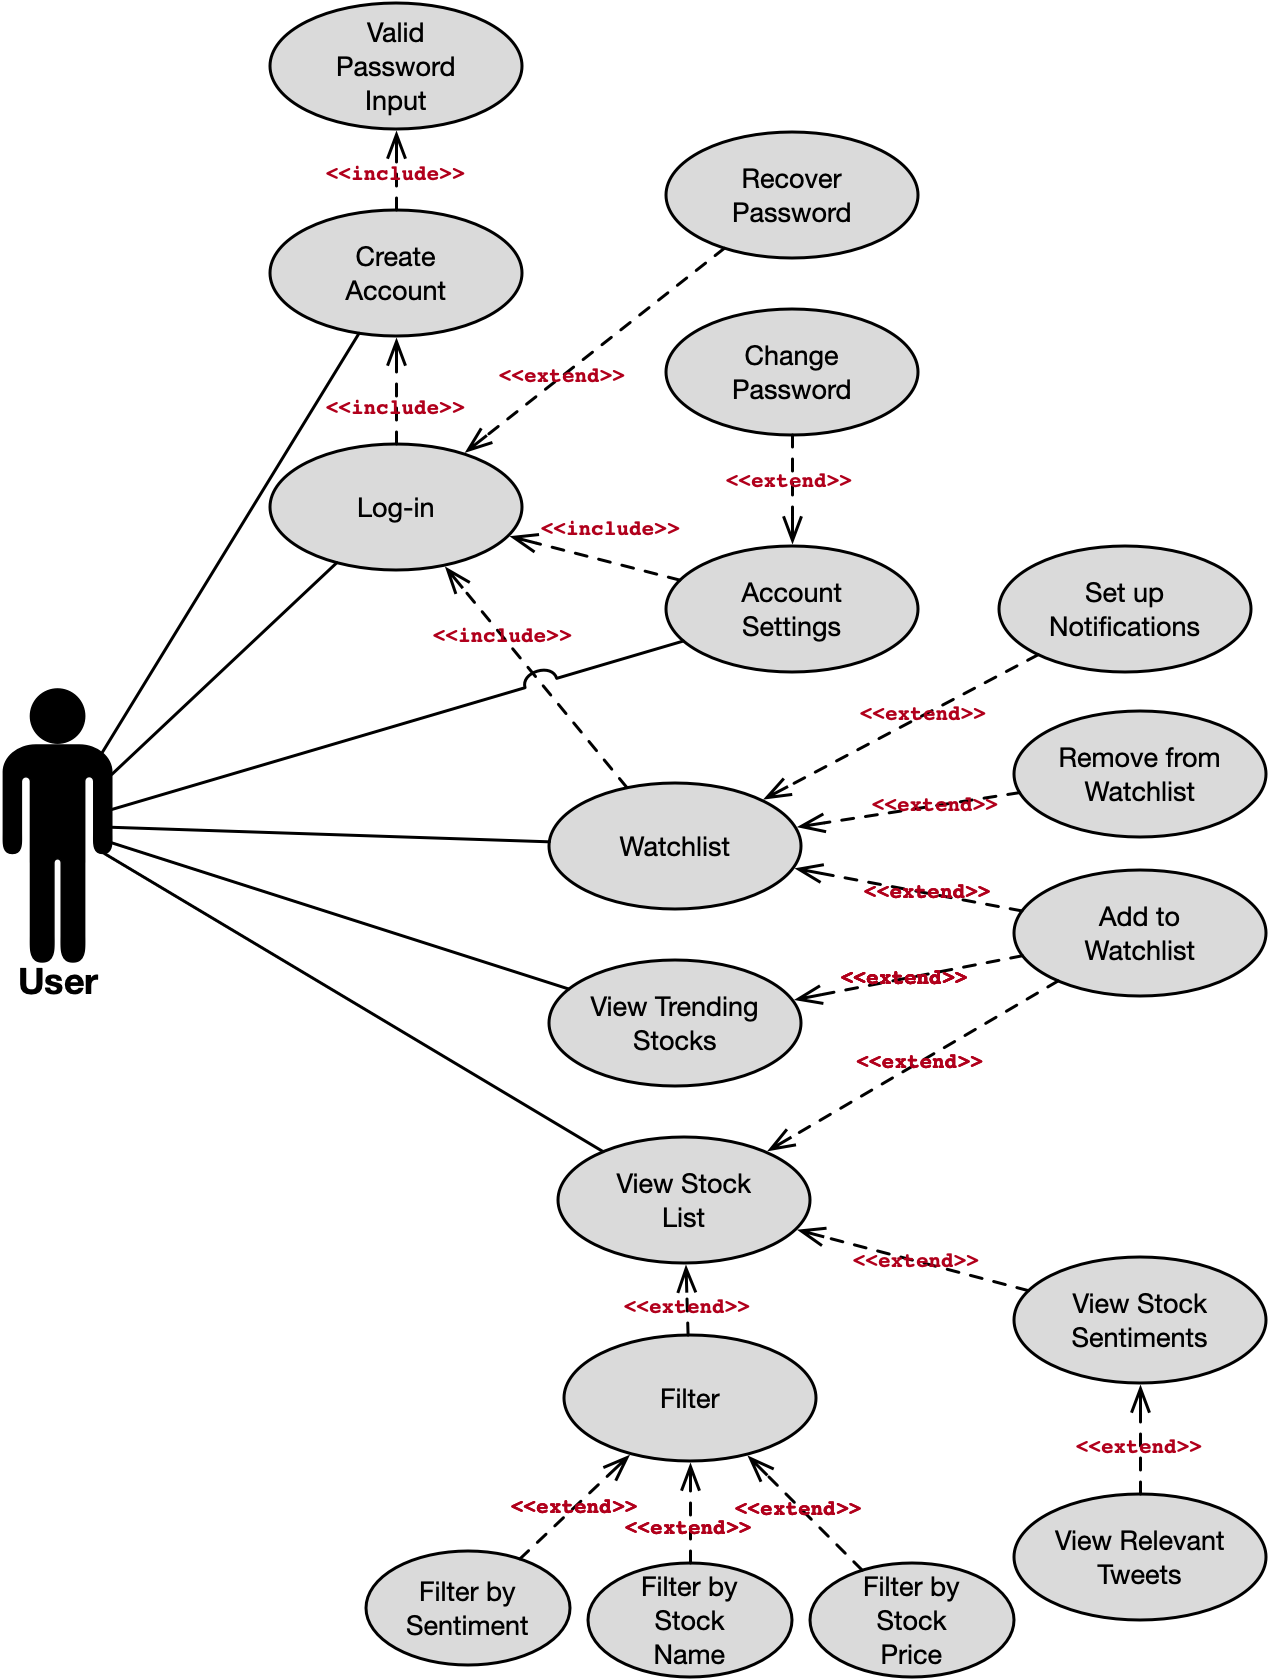
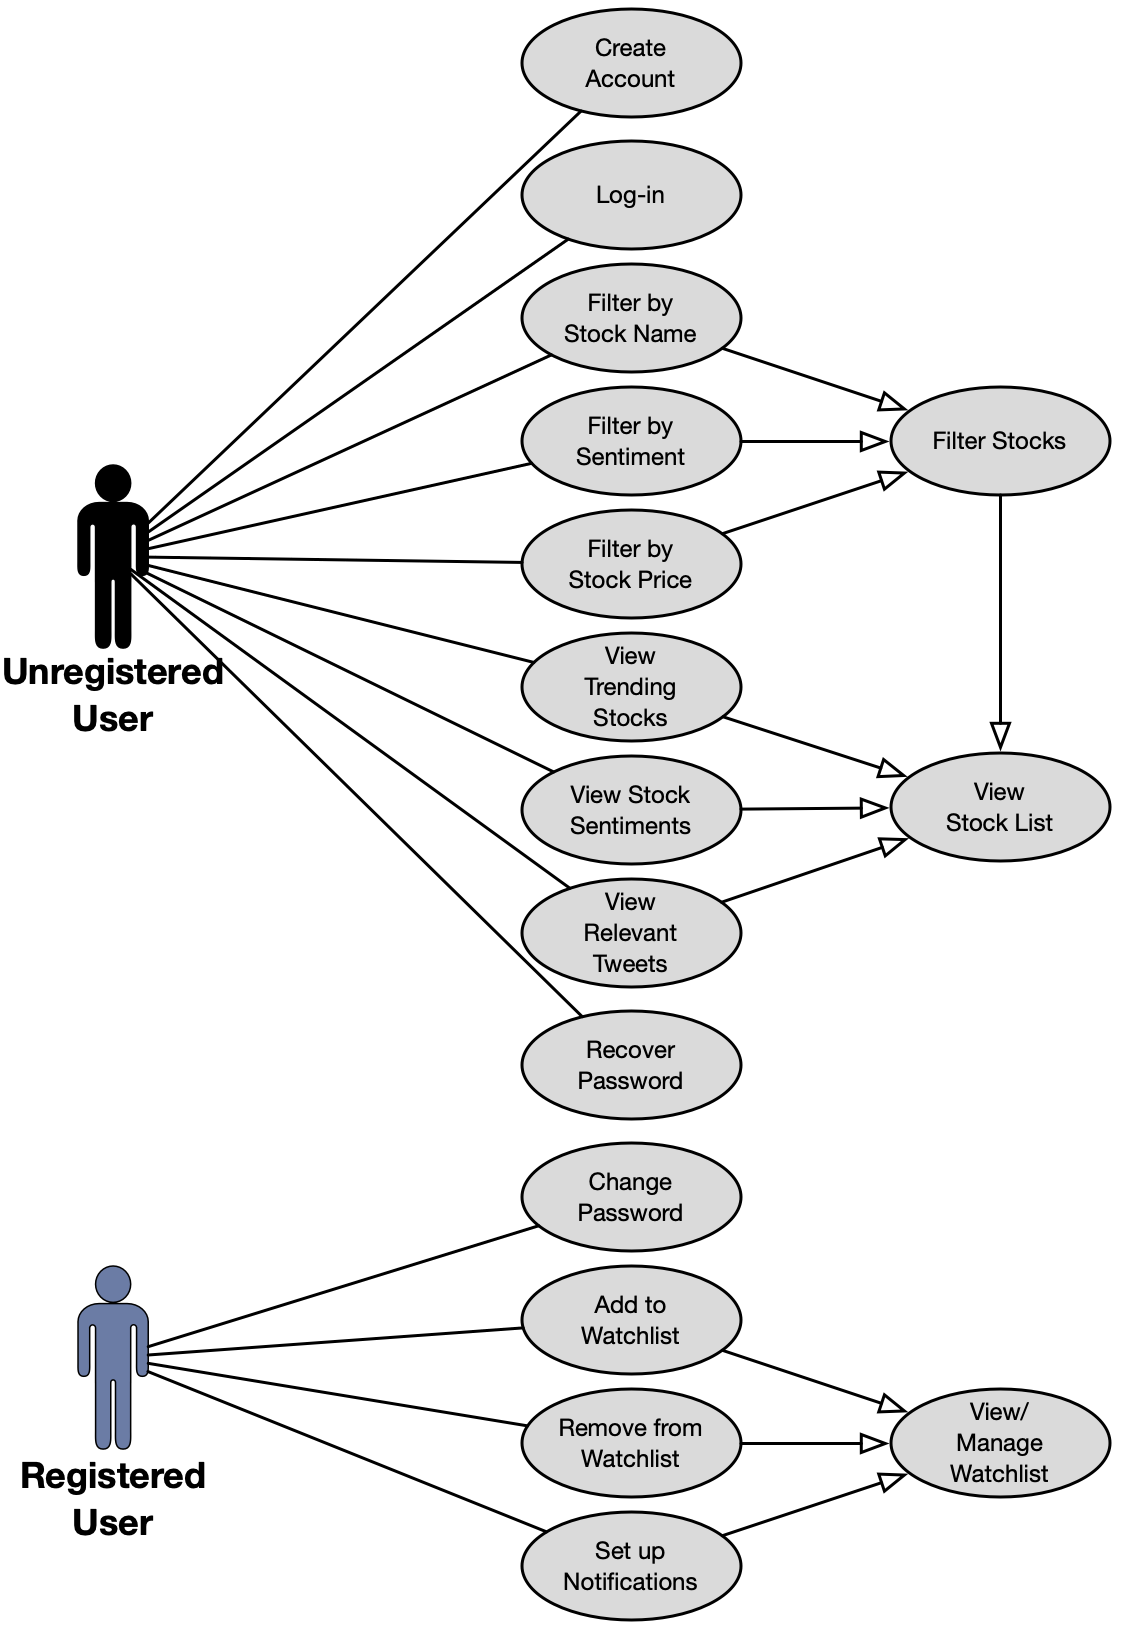
Updated Requirements

diff --git a/docs/requirements.html b/docs/requirements.html
@@ -235,8 +235,105 @@
                     </ul>
                 </div>
                 <h4><span id="3.6.0">(3.6.0) Actors and Use Cases</span></h4>
-                <p>The user interacting with StockEye through their web-browser is the sole actor. The following UML Use Case diagram illustrates how the user will interact with the use cases.</p>
+                <p>The user interacting with StockEye through their web-browser is the sole actor; however, this actor can either be an unregistered or registered user. The following UML Use Case diagram illustrates how the user will interact with the use cases.</p>
                 <img src="\Images\requirements\uml-user_case.png" alt="User Case" style="display: block; margin-left:auto;margin-right:auto; width: 500px;">            
+                <h5>Actors</h5>
+                <table class="vertical-table" style="font-size:90%; margin-left:auto; margin-right:auto;">
+                    <tr>
+                        <th>Actor</th>
+                        <th>Characteristics and Properties</th>
+                    <tr>
+                    <tr>
+                        <td>Unregistered User</td>
+                        <td>
+                            <ul style="list-style-type:none; padding-left: 0px;">
+                                <li>Users that have not logged-in with an account.</li>
+                                <li>Able to interact with basic use cases.</li>
+                            </ul>
+                        </td>
+                    </tr>
+                    <tr>
+                        <td>Registered User</td>
+                        <td>
+                            <ul style="list-style-type:none; padding-left: 0px;">
+                                <li>Users that have logged-in with an account.</li>
+                                <li>Inherits all the use cases accessible to Unregistered Users, except Create Account.</li>
+                                <li>Additional use cases accessible.</li>
+                            </ul>
+                        </td>
+                    </tr>
+                </table>
+                <h5>Use Cases</h5>
+                <table class="vertical-table" style="font-size:90%; margin-left:auto; margin-right:auto;">
+                    <tr>
+                        <th>Use Cases</th>
+                        <th>Description</th>
+                    <tr>
+                    <tr>
+                        <td>Create Account</td>
+                        <td>Register a user account.</td>
+                    </tr>
+                    <tr>
+                        <td>Log-in</td>
+                        <td>Log-in using registered user account.</td>
+                    </tr>
+                    <tr>
+                        <td>View Stock List</td>
+                        <td>View the complete list of Stocks available.</td>
+                    </tr>
+                    <tr>
+                        <td>Filter Stocks</td>
+                        <td>Filter the Stock List using selected criteria.</td>
+                    </tr>
+                    <tr>
+                        <td>Filter by Stock Name</td>
+                        <td>A criteria used to filter the Stock List.</td>
+                    </tr>
+                    <tr>
+                        <td>Filter by Sentiment</td>
+                        <td>A criteria used to filter the Stock List.</td>
+                    </tr>
+                    <tr>
+                        <td>Filter by Stock Price</td>
+                        <td>A criteria used to filter the Stock List.</td>
+                    </tr>
+                    <tr>
+                        <td>View Trending Stock</td>
+                        <td>View the currently trending stocks on Twitter from the Stock List.</td>
+                    </tr>
+                    <tr>
+                        <td>View Stock Sentiments</td>
+                        <td>View the sentiment of a selected stock.</td>
+                    </tr>
+                    <tr>
+                        <td>View Relevant Tweets</td>
+                        <td>View popular tweets contributing to the sentiment of a selected stock.</td>
+                    </tr>
+                    <tr>
+                        <td>Recover Password</td>
+                        <td>Password recovery, in case account password is forgotten.</td>
+                    </tr>
+                    <tr>
+                        <td>Change Password</td>
+                        <td>The changing of current account password.</td>
+                    </tr>
+                    <tr>
+                        <td>View/Manage Watchlist</td>
+                        <td>View or manage user account Watchlist.</td>
+                    </tr>
+                    <tr>
+                        <td>Add to Watchlist</td>
+                        <td>Add a stock to the user account Watchlist.</td>
+                    </tr>
+                     <tr>
+                        <td>Remove from Watchlist</td>
+                        <td>Remove a stock from the user account Watchlist.</td>
+                    </tr>
+                     <tr>
+                        <td>Set Up Notifications</td>
+                        <td>Set up a notifications either by email or text regarding sentiment fluctuations of selected stocks.</td>
+                    </tr>
+                </table>
             </div>
 
         <h3><span id="Change-History">Change History</span></h3>
@@ -278,6 +375,15 @@
                     <tr>
                         <td>February 14, 2021</td>
                         <td>User Case diagram update</td>
+                        <td>
+                            <ul style="list-style-type:none; padding-left: 0px;">
+                                <li>Roy Ceyleon</li>
+                            </ul>
+                        </td>
+                    </tr>
+                    <tr>
+                        <td>February 22, 2021</td>
+                        <td>Updated Actors and Use Cases</td>
                         <td>
                             <ul style="list-style-type:none; padding-left: 0px;">
                                 <li>Roy Ceyleon</li>
